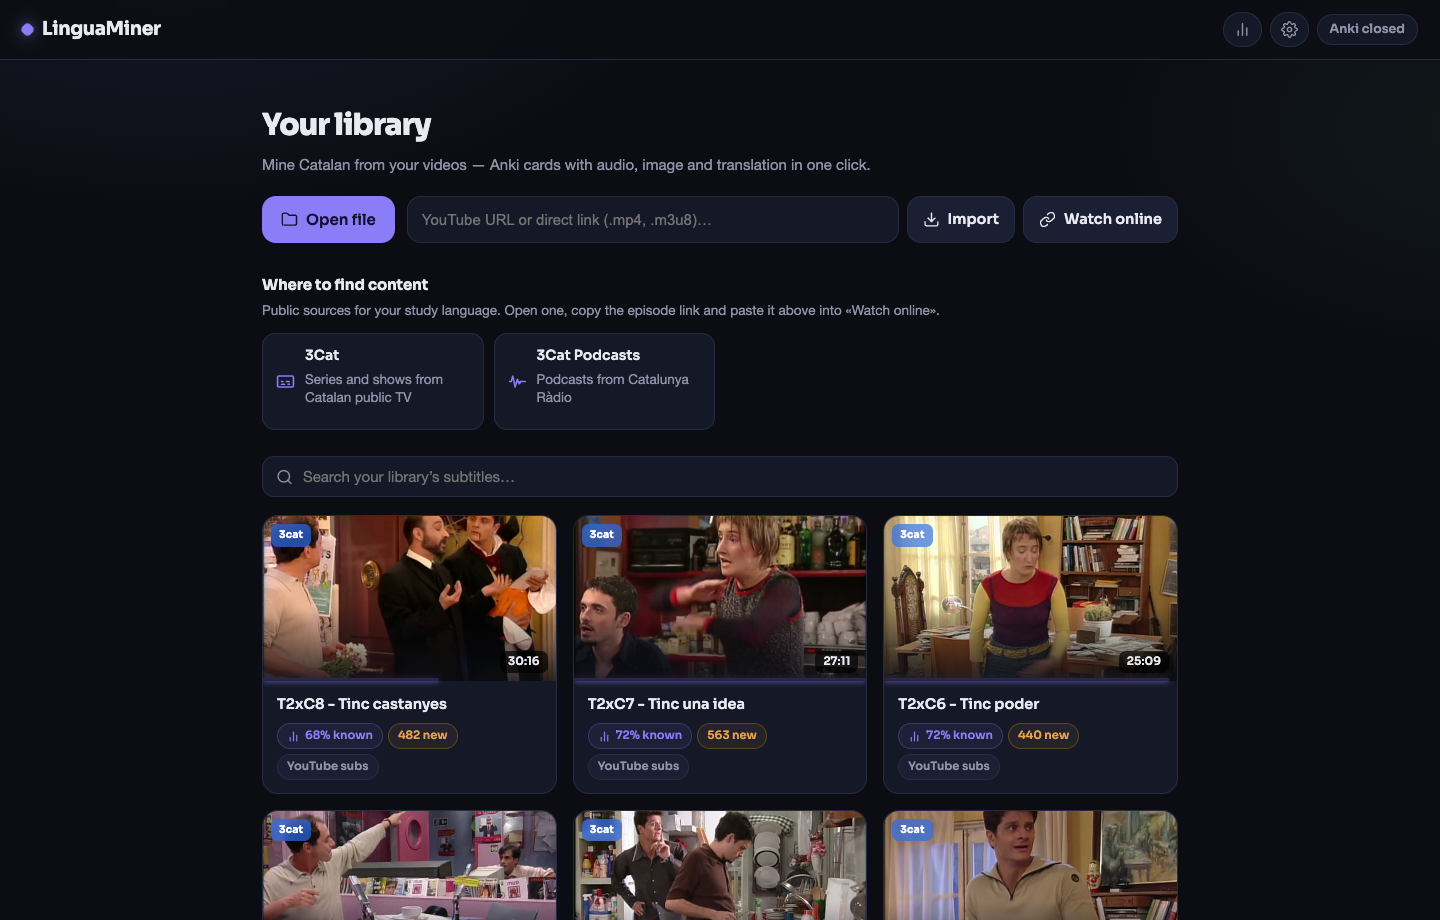
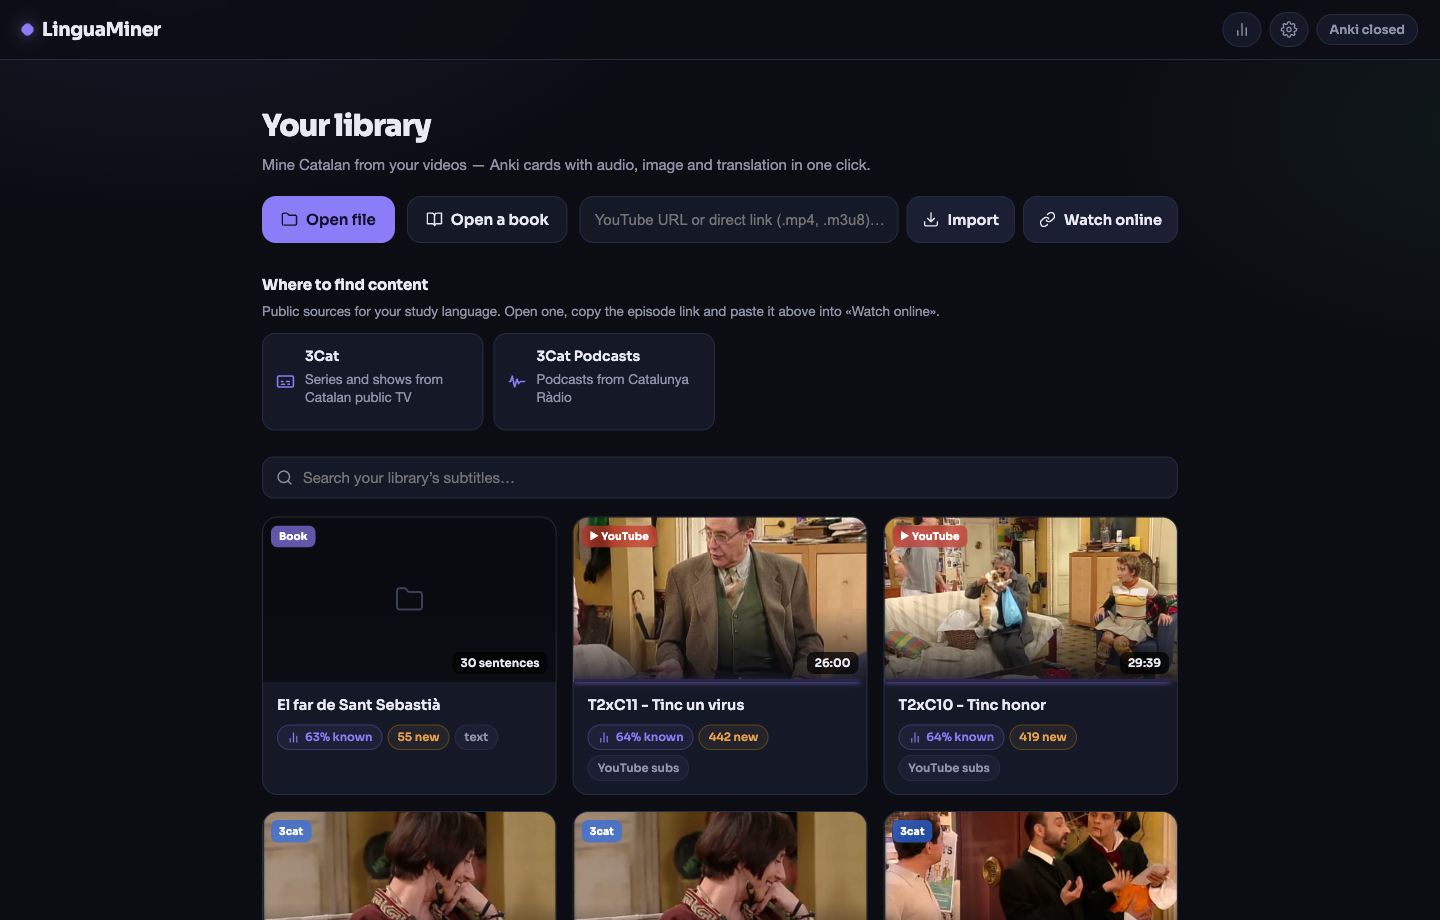
docs: el lector, en el tutorial y en las capturas — v1.30.0
Llevaba tres versiones un lector completo del que no se enteraba nadie: el
tutorial se anuncia como "clips of every feature" y no lo mencionaba, las
capturas eran anteriores a que existiera, y el vídeo tampoco lo enseña.

- Nueva sección 5 del tutorial: importar, páginas, tarjetas con voz, modo
  frase, y el interruptor de marcar al pasar de página con sus tres
  diferencias respecto a LingQ. Renumeradas las secciones 5-10 a 6-11.
- Capturas nuevas del lector y del modo frase; library.png regenerada, que no
  tenía ni el botón "Open a book".
- README: las dos capturas, y el lector en el paso a paso de uso.

De paso, tres cosas que salieron al preparar las capturas:

- Un libro salía como "0:30" donde un vídeo pone duración: los segmentos de
  texto usan el índice de frase como tiempo. Ahora dice "30 sentences".
- Su distintivo era "Local", igual que un vídeo del disco. Ahora "Book".
- La caja del modo frase heredaba el alto de una página entera y dejaba un
  hueco vacío que se leía como fallo, no como concentración.

Y los atajos decían 1-4 cuando hay cinco estados desde hace versiones.

306 tests. Los nuevos comprueban que las imágenes de los docs existen, que las
anclas internas y entre documentos resuelven (el índice se renumera a mano) y
que el tutorial sigue cubriendo el lector.

diff --git a/static/i18n.js b/static/i18n.js
@@ -163,6 +163,8 @@ const I18N = {
     "hero.text": "Abrir libro",
     "rd.imported": "{0} frases listas para leer",
     "help.reader_note": "En el lector valen las mismas teclas: A/← y D/→ pasan de página, 1-5 cambian el estado, Q mina la palabra y S lee la frase en voz alta.",
+    "lib.book": "Libro",
+    "lib.sentences": "{0} frases",
     "rd.say": "Escuchar la frase (S / ↓)",
     "rd.mode": "Frase a frase",
     "rd.auto": "Al pasar de página, marcar el resto como conocido",
@@ -430,6 +432,8 @@ const I18N = {
     "hero.text": "Obre un llibre",
     "rd.imported": "{0} frases a punt per llegir",
     "help.reader_note": "Al lector valen les mateixes tecles: A/← i D/→ passen de pàgina, 1-5 canvien l’estat, Q mina la paraula i S llegeix la frase en veu alta.",
+    "lib.book": "Llibre",
+    "lib.sentences": "{0} frases",
     "rd.say": "Escolta la frase (S / ↓)",
     "rd.mode": "Frase a frase",
     "rd.auto": "En passar de pàgina, marca la resta com a coneguda",
@@ -697,6 +701,8 @@ const I18N = {
     "hero.text": "Open a book",
     "rd.imported": "{0} sentences ready to read",
     "help.reader_note": "The same keys work in the reader: A/← and D/→ turn the page, 1-5 set the word state, Q mines the word and S reads the sentence aloud.",
+    "lib.book": "Book",
+    "lib.sentences": "{0} sentences",
     "rd.say": "Play the sentence (S / ↓)",
     "rd.mode": "One sentence at a time",
     "rd.auto": "Turning the page marks the rest as known",

diff --git a/static/app.js b/static/app.js
@@ -152,6 +152,7 @@ function sourceBadge(s) {
   if (s.source_type === "stream") return { t: "Streaming", c: "st" };
   if (s.source_type === "youtube") return { t: "▶ YouTube", c: "yt" };
   if (s.source_type === "url") return { t: "Enlace", c: "st" };
+  if (s.source_type === "text") return { t: t("lib.book"), c: "txt" };
   return { t: "Local", c: "loc" };
 }
 
@@ -170,7 +171,9 @@ async function loadSessions() {
         ${s.thumb ? "" : `<svg class="ic thumb-ph"><use href="#i-folder"/></svg>`}
         <span class="src-badge src-${sourceBadge(s).c}">${sourceBadge(s).t}</span>
         <button class="scard-del" title="${esc(t("lib.delete"))}" aria-label="${esc(t("lib.delete"))}"><svg class="ic"><use href="#i-trash"/></svg></button>
-        ${s.duration_secs ? `<span class="dur">${fmtTime(s.duration_secs)}</span>` : ""}
+        ${s.duration_secs ? `<span class="dur">${s.source_type === "text"
+            ? t("lib.sentences", Math.round(s.duration_secs))
+            : fmtTime(s.duration_secs)}</span>` : ""}
         ${s.resume_pos && s.duration_secs ? `<span class="resume-bar" style="width:${Math.min(100, s.resume_pos / s.duration_secs * 100).toFixed(1)}%"></span>` : ""}
       </div>
       <div class="scard-body">

diff --git a/static/style.css b/static/style.css
@@ -580,6 +580,7 @@ button.small { font-size: 12px; padding: 6px 10px; }
 .src-badge.src-tv { background: #2a6df0aa; }
 .src-badge.src-st { background: #8b5cf6aa; }
 .src-badge.src-loc { background: #000000a0; color: #c8cbe0; }
+.src-badge.src-txt { background: #8b7cf8aa; }   /* libro: el violeta de la marca */
 /* Botón de borrar: aparece al pasar el ratón por la tarjeta (siempre visible
    en pantallas táctiles, que no tienen hover). */
 .scard-del {
@@ -956,7 +957,9 @@ button:disabled { cursor: not-allowed; opacity: .55; }
 #reader-auto:hover { color: var(--fg); }
 #reader-auto input { accent-color: var(--vio); cursor: pointer; }
 /* modo frase: la frase sola, grande y centrada, sin nada que la rodee */
-#reader-page.one { display: flex; align-items: center; min-height: 52vh; }
+/* la caja se ciñe a la frase: heredar el alto de una página entera dejaba
+   un hueco vacío que se leía como un fallo, no como concentración */
+#reader-page.one { display: flex; align-items: center; min-height: 30vh; }
 .rd-one { font-size: 26px; line-height: 1.7; text-align: center; width: 100%;
   margin: 0; }
 @media (max-width: 640px) { .rd-one { font-size: 21px; } }

diff --git a/static/index.html b/static/index.html
@@ -4,7 +4,7 @@
 <meta charset="utf-8">
 <title>LinguaMiner</title>
 <meta name="viewport" content="width=device-width, initial-scale=1, viewport-fit=cover">
-<link rel="icon" href="/favicon.png?v=1.29.0">
+<link rel="icon" href="/favicon.png?v=1.30.0">
 <link rel="apple-touch-icon" href="/icons/icon-192.png">
 <link rel="manifest" href="/manifest.webmanifest">
 <meta name="theme-color" content="#0c0d13">
@@ -12,7 +12,7 @@
 <meta name="apple-mobile-web-app-capable" content="yes">
 <meta name="apple-mobile-web-app-status-bar-style" content="black-translucent">
 <meta name="apple-mobile-web-app-title" content="LinguaMiner">
-<link rel="stylesheet" href="/style.css?v=1.29.0">
+<link rel="stylesheet" href="/style.css?v=1.30.0">
 </head>
 <body>
 <!-- sprite de iconos (estilo Lucide: 24×24, trazo 2, sin relleno) -->
@@ -506,7 +506,7 @@
     });
   }
 </script>
-<script src="/i18n.js?v=1.29.0"></script>
-<script src="/app.js?v=1.29.0"></script>
+<script src="/i18n.js?v=1.30.0"></script>
+<script src="/app.js?v=1.30.0"></script>
 </body>
 </html>

diff --git a/static/sw.js b/static/sw.js
@@ -1,7 +1,7 @@
 // Service worker de LinguaMiner. Convierte la web en PWA instalable y da un
 // arranque offline del "shell". Nunca cachea /api/ ni /media/ (dinámicos y
 // pesados). CACHE va atado a la versión de pyproject (lo garantiza test_assets).
-const CACHE = "linguaminer-1.29.0";
+const CACHE = "linguaminer-1.30.0";
 const SHELL = [
   "/",
   "/index.html",

diff --git a/tests/test_docs.py b/tests/test_docs.py
@@ -1,0 +1,67 @@
+"""Enlaces e imágenes de la documentación.
+
+El README y el tutorial son la primera pantalla del proyecto para alguien que
+llega de Reddit. Una imagen que no existe sale como un icono roto, y un ancla
+mal escrita lleva a la nada — las dos cosas pasan solas al renumerar secciones
+o al renombrar una captura, y ningún test las veía.
+"""
+import re
+from pathlib import Path
+
+ROOT = Path(__file__).resolve().parent.parent
+DOCS = [ROOT / "README.md", *sorted((ROOT / "docs").glob("*.md"))]
+
+
+def _anclas(texto: str) -> set[str]:
+    """Las que genera GitHub: minúsculas, sin puntuación, espacios a guiones."""
+    return {re.sub(r"[^a-z0-9 -]", "", h.lower()).replace(" ", "-")
+            for h in re.findall(r"^#{1,6} (.+)$", texto, re.M)}
+
+
+def test_every_image_in_the_docs_exists():
+    faltan = []
+    for doc in DOCS:
+        for m in re.finditer(r"!\[[^\]]*\]\(([^)]+)\)", doc.read_text()):
+            ref = m.group(1)
+            if ref.startswith("http"):
+                continue
+            if not (doc.parent / ref).exists():
+                faltan.append(f"{doc.name} -> {ref}")
+    assert not faltan, "imágenes que no existen:\n  " + "\n  ".join(faltan)
+
+
+def test_internal_anchors_point_somewhere():
+    rotas = []
+    for doc in DOCS:
+        txt = doc.read_text()
+        anclas = _anclas(txt)
+        for m in re.finditer(r"\]\(#([^)]+)\)", txt):
+            if m.group(1) not in anclas:
+                rotas.append(f"{doc.name} -> #{m.group(1)}")
+    assert not rotas, "anclas rotas dentro del documento:\n  " + "\n  ".join(rotas)
+
+
+def test_anchors_that_cross_documents_point_somewhere():
+    """El índice del tutorial se renumera a mano; el README lo enlaza."""
+    rotas = []
+    for doc in DOCS:
+        for m in re.finditer(r"\]\(([^)#]+\.md)#([^)]+)\)", doc.read_text()):
+            destino = (doc.parent / m.group(1)).resolve()
+            if not destino.exists():
+                rotas.append(f"{doc.name} -> {m.group(1)} (no existe)")
+            elif m.group(2) not in _anclas(destino.read_text()):
+                rotas.append(f"{doc.name} -> {m.group(1)}#{m.group(2)}")
+    assert not rotas, "enlaces entre documentos rotos:\n  " + "\n  ".join(rotas)
+
+
+def test_the_tutorial_covers_the_reader():
+    """Se anuncia como «every feature»; el lector faltó tres versiones."""
+    txt = (ROOT / "docs" / "tutorial.md").read_text().lower()
+    for pieza in ("epub", "sentence mode", "open a book"):
+        assert pieza in txt, f"el tutorial no menciona «{pieza}»"
+
+
+def test_the_tutorial_sections_are_numbered_without_gaps():
+    txt = (ROOT / "docs" / "tutorial.md").read_text()
+    nums = [int(n) for n in re.findall(r"^## (\d+)\. ", txt, re.M)]
+    assert nums == list(range(1, len(nums) + 1)), f"numeración con saltos: {nums}"

diff --git a/docs/tutorial.md b/docs/tutorial.md
@@ -13,12 +13,13 @@ Haven't installed it yet? Start with the
 - [2. Getting subtitles](#2-getting-subtitles)
 - [3. Reading the colours](#3-reading-the-colours)
 - [4. Making a card](#4-making-a-card)
-- [5. Jumping around with the transcript](#5-jumping-around-with-the-transcript)
-- [6. The words panel and your level](#6-the-words-panel-and-your-level)
-- [7. Condensed audio](#7-condensed-audio)
-- [8. Bringing in words you already know](#8-bringing-in-words-you-already-know)
-- [9. Settings worth knowing](#9-settings-worth-knowing)
-- [10. Keyboard shortcuts](#10-keyboard-shortcuts)
+- [5. Reading books and articles](#5-reading-books-and-articles)
+- [6. Jumping around with the transcript](#6-jumping-around-with-the-transcript)
+- [7. The words panel and your level](#7-the-words-panel-and-your-level)
+- [8. Condensed audio](#8-condensed-audio)
+- [9. Bringing in words you already know](#9-bringing-in-words-you-already-know)
+- [10. Settings worth knowing](#10-settings-worth-knowing)
+- [11. Keyboard shortcuts](#11-keyboard-shortcuts)
 
 ---
 
@@ -114,7 +115,7 @@ From there:
 
 - **⏎** sends the card straight to Anki.
 - **⇧Q** or the pencil opens the editor first, if you want to fix a field.
-- The **1–4** keys set the word's status without making a card, for when you
+- The **1–5** keys set the word's status without making a card, for when you
   realise you already know it.
 - Drag across several words to mine a whole expression instead of one word.
 
@@ -135,7 +136,68 @@ still) and the audio of that line. The back adds the word and sentence
 in your language, the episode and timestamp it came from, and how
 common the word is.
 
-## 5. Jumping around with the transcript
+## 5. Reading books and articles
+
+![Reading a book, with the same word colours as the subtitles](screenshots/reader.png)
+
+Everything above works on text too. **Open a book** on the front page takes a
+`.txt` or an `.epub` and turns it into a session like any other — the same
+colours from section 3, the same popup from section 4, the same cards into
+Anki.
+
+An EPUB is read in spine order, so chapters come out in the order the book
+intends rather than the order the file happens to store them. Scripts, styles
+and markup are stripped; you get the prose.
+
+Text is split into sentences and laid out in **pages**, with paragraphs kept
+together so it reads like a book and not like a list of subtitles. The page you
+stopped on is remembered, so reopening a novel puts you back where you were.
+
+### Cards from a book
+
+Identical to section 4, with two differences: there is no video frame, and the
+audio of the sentence is spoken by the **Piper** neural voice instead of being
+cut out of a soundtrack. The card footer carries the book title and the
+sentence number instead of a timestamp.
+
+### Sentence mode
+
+![Sentence mode: one sentence, with its audio](screenshots/reader-sentence.png)
+
+The speech-bubble button puts one sentence in front of you at a time, and the
+speaker button next to it reads it aloud. Useful when a paragraph is dense and
+you want to slow down. `S` (or `↓`) replays it.
+
+### Turning the page
+
+The switch under the page — **Turning the page marks the rest as known** — is
+the mechanic LingQ is built on: once you've read a page, whatever you didn't
+click is presumably something you understood, so it goes to *known* and the
+next page shows you only what's genuinely new.
+
+It's **off by default**, and when it's on it behaves differently from LingQ's
+in three ways that matter:
+
+- It tells you how many words it changed, every time.
+- The notice has an **Undo** button.
+- It never touches a status you set yourself. A word you marked *learning*
+  stays *learning*.
+
+LingQ does this silently, which is why its users end up not trusting their own
+known-word count. If you'd rather keep marking by hand, leave the switch off
+and nothing happens.
+
+### Keys
+
+The same map as the player: `A`/`←` and `D`/`→` turn the page, `1`–`5` set the
+word's status, `Q` mines the word under the cursor, `S` reads the sentence.
+
+### What it doesn't take
+
+`.pdf`, `.docx` and `.mobi` aren't supported. For a PDF, export or copy the
+text into a `.txt` first.
+
+## 6. Jumping around with the transcript
 
 ![The subtitle browser](tutorial/04-transcript.gif)
 
@@ -149,7 +211,7 @@ to mine an episode you've already watched.
 Other movement: **A** and **D** step back and forward one sentence, **S**
 replays the current one, **P** auto-pauses at the end of each line.
 
-## 6. The words panel and your level
+## 7. The words panel and your level
 
 ![The words panel](tutorial/05-words.gif)
 
@@ -164,7 +226,7 @@ frequent words of the language as known in one go, so the app stops
 highlighting *the*, *and* and *because* on day one. Pick the band that matches
 roughly where you are and adjust later.
 
-## 7. Condensed audio
+## 8. Condensed audio
 
 **Condensed audio** exports an MP3 containing only the dialogue of an episode,
 with the silence and the music cut out. A 50-minute show usually lands around
@@ -177,7 +239,7 @@ tells the app where the speech is.
 There's also a **K** toggle in the player that does the same thing live: it
 skips the gaps between lines while you watch.
 
-## 8. Bringing in words you already know
+## 9. Bringing in words you already know
 
 If you already study this language in Anki, don't start from zero. Go to ⚙ →
 *Vocabulary you already know*, pick one of your decks, and the app marks those
@@ -191,7 +253,7 @@ After that, word states also keep syncing from your Anki review intervals, so a
 word you've matured stops being highlighted in the video without you doing
 anything.
 
-## 9. Settings worth knowing
+## 10. Settings worth knowing
 
 ![Settings](tutorial/06-settings.gif)
 
@@ -214,7 +276,7 @@ whoever connects full access, so only turn it on for people you trust.
 
 **Updates** pulls the latest version without touching a terminal.
 
-## 10. Keyboard shortcuts
+## 11. Keyboard shortcuts
 
 Migaku's layout, all remappable in ⚙.
 
@@ -225,7 +287,7 @@ Migaku's layout, all remappable in ⚙.
 | `S` / `↓` | replay this sentence |
 | `Q` | mine the word under the cursor |
 | `⇧Q` | open the card editor |
-| `1`–`4` | set word status |
+| `1`–`5` | set word status |
 | `R` | jump to the next recommended sentence |
 | `W` | hide subtitles |
 | `E` | dual subtitles |
@@ -238,6 +300,10 @@ Migaku's layout, all remappable in ⚙.
 | `⏎` | send the card |
 | `Esc` | close whatever's open |
 | `?` | this list, in the app |
+
+**In the reader** the same keys turn the page, set word states, mine and read
+the sentence aloud. The ones that need a video — pause, subtitles, condensed
+playback, fullscreen — simply do nothing there.
 
 ---
 

diff --git a/README.md b/README.md
@@ -2,7 +2,7 @@
 
 [![CI](https://github.com/thecopybookhare-cmd/lingua-miner/actions/workflows/ci.yml/badge.svg)](https://github.com/thecopybookhare-cmd/lingua-miner/actions)
 ![license](https://img.shields.io/badge/license-MIT-blue)
-![version](https://img.shields.io/badge/version-1.29.0-8b7cf8)
+![version](https://img.shields.io/badge/version-1.30.0-8b7cf8)
 ![python](https://img.shields.io/badge/python-3.12-3776ab)
 
 **Local, Migaku-style flashcard miner — learn languages from the videos you love.**
@@ -90,6 +90,18 @@ language, plus where it came from and how common the word is.
 |---|---|
 | ![Library](docs/screenshots/library.png) | ![Words panel](docs/screenshots/words-panel.png) |
 
+### The same thing, on books
+
+![Reading a book, with the same word colours as the subtitles](docs/screenshots/reader.png)
+
+Import a `.txt` or `.epub` and it becomes a reading session: same colours, same
+popup, same cards — with the sentence read aloud by a neural voice instead of
+cut from a soundtrack.
+
+![Sentence mode: one sentence at a time, with its audio](docs/screenshots/reader-sentence.png)
+
+*Sentence mode puts one sentence in front of you, and reads it out loud.*
+
 ## Install
 
 Everyone installs **their own copy** — nothing to host. You don't need Python
@@ -158,9 +170,13 @@ language (English, Spanish or Catalan) — change it under ⚙ any time.
 3. Click any word in the subtitle (or drag-select an expression).
 4. Review/edit the card in the popup and press **⏎**.
 
+Reading instead of watching? **Open a book** takes a `.txt` or `.epub` and
+steps 3 and 4 are identical — see
+[the reader section of the walkthrough](docs/tutorial.md#5-reading-books-and-articles).
+
 **Shortcuts (Migaku map):** `A`/`←` previous sentence · `D`/`→` next ·
 `S`/`↓` replay · `Q` mine word under cursor · `⇧Q` open card editor ·
-`1-4` word status · `W` hide subs · `E` dual subtitles · `K` condensed
+`1-5` word status · `W` hide subs · `E` dual subtitles · `K` condensed
 playback · `G` subtitle browser · `P` auto-pause · `F` fullscreen ·
 `space` play/pause · `⏎` send card · `Esc` close. All remappable in ⚙.
 
@@ -199,7 +215,7 @@ language is mostly adding one entry there.
 ```bash
 uv pip install -p .venv/bin/python -e . --group dev
 .venv/bin/ruff check app/ tests/     # lint
-.venv/bin/python -m pytest tests/    # 301 tests
+.venv/bin/python -m pytest tests/    # 306 tests
 ```
 
 See [CONTRIBUTING.md](CONTRIBUTING.md). CI runs lint + tests on
